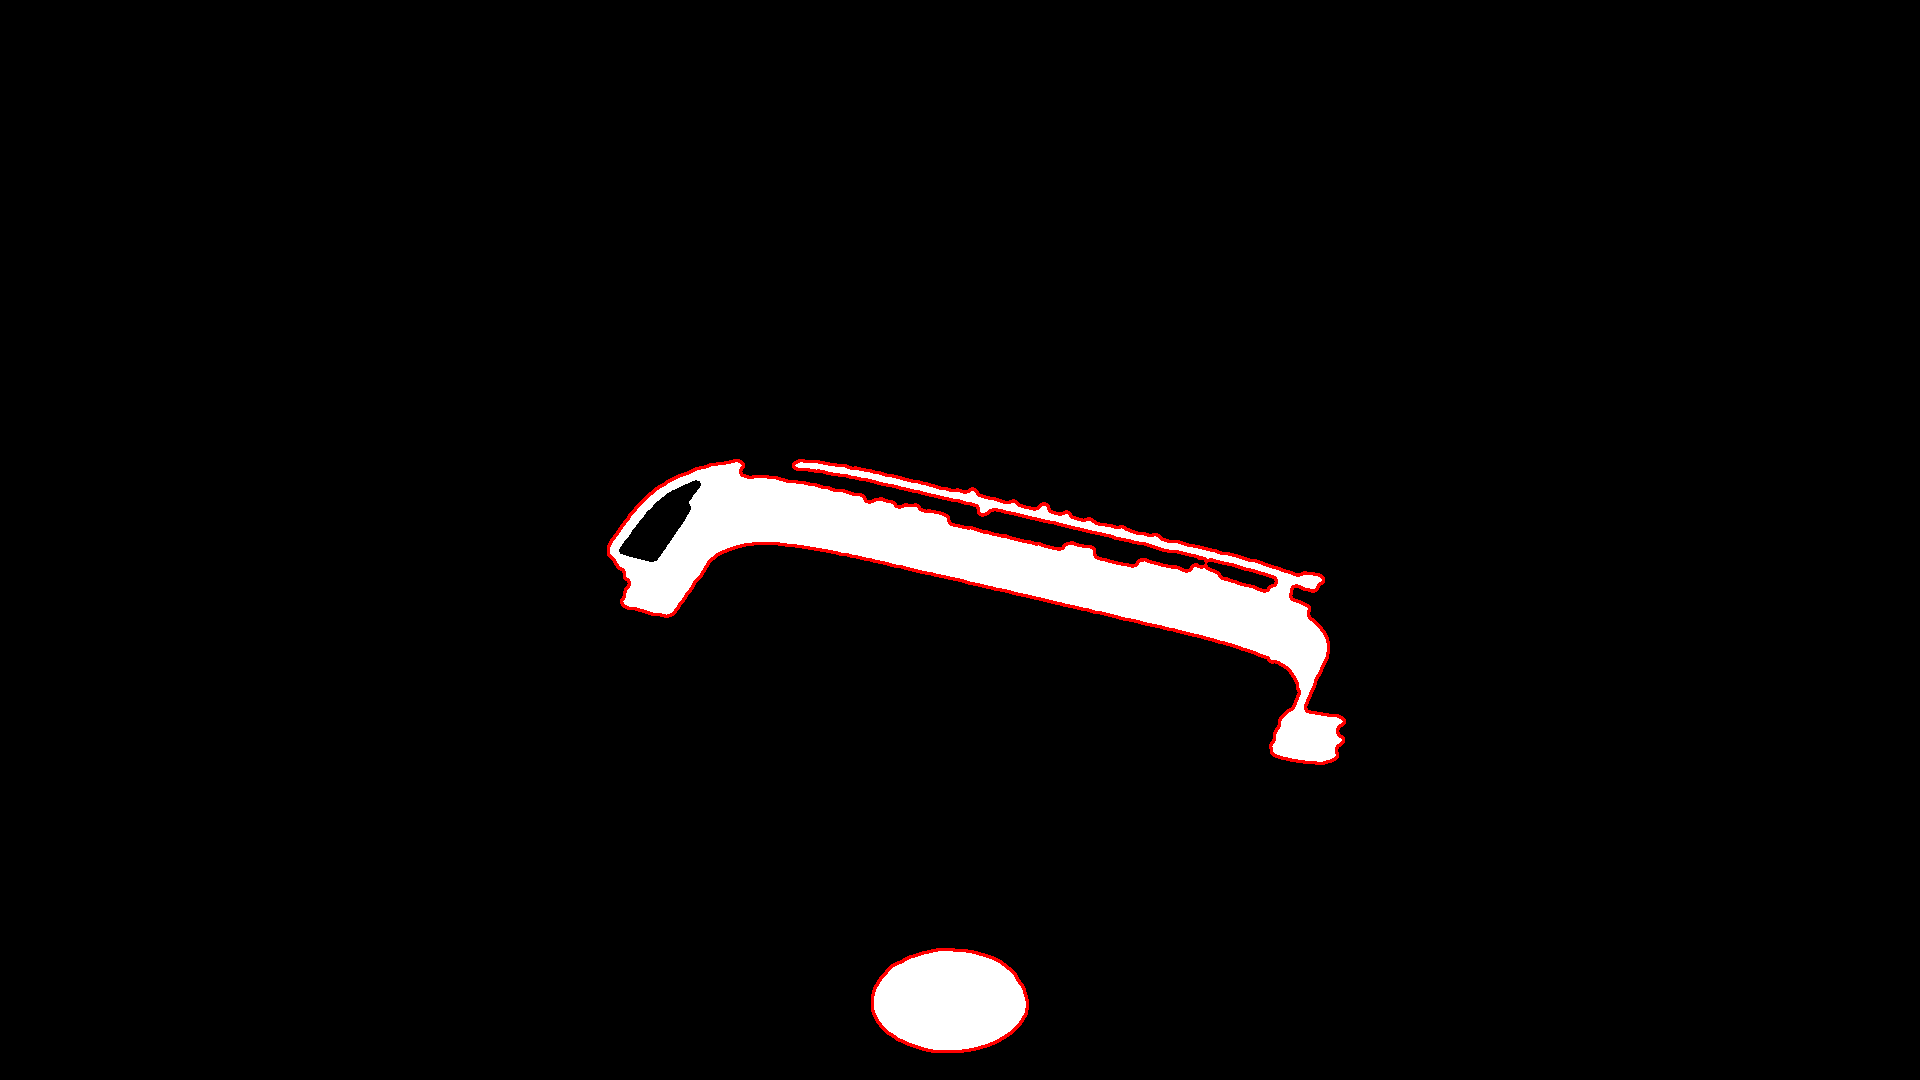
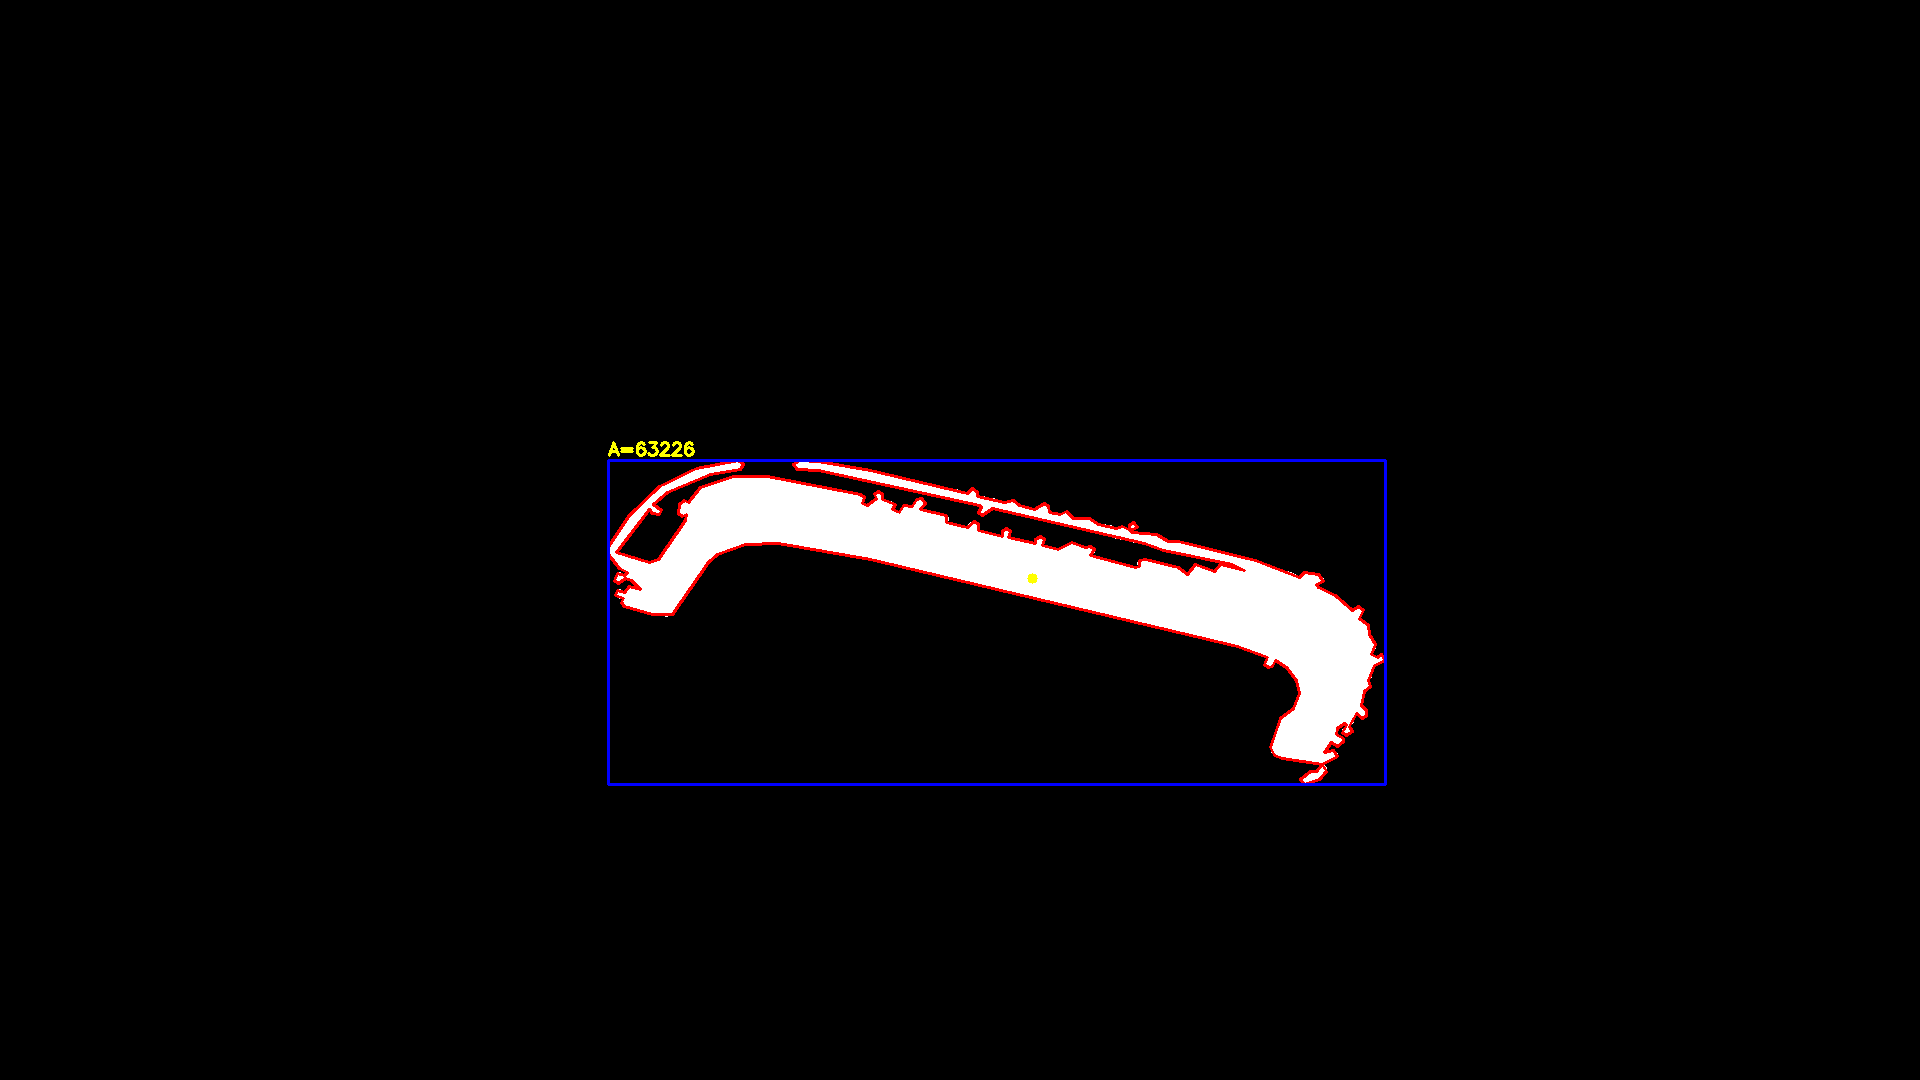
mejoras segmentacion v3

diff --git a/interfaz_robot/interfaz_robot.cpp b/interfaz_robot/interfaz_robot.cpp
@@ -505,7 +505,9 @@ cv::Mat interfaz_robot::ProcesarImagen() {
 
     for (const auto& entry : fs::directory_iterator(rutaEjecutable)) {
         std::string nombre = entry.path().filename().string();
-        if (nombre.rfind("pieza_", 0) == 0 && nombre.find("segmentada") == std::string::npos && entry.path().extension() == ".png") {
+        if (nombre.rfind("pieza_", 0) == 0 &&
+            nombre.find("segmentada") == std::string::npos &&
+            entry.path().extension() == ".png") {
             imagenes.push_back(entry.path());
         }
     }
@@ -519,7 +521,7 @@ cv::Mat interfaz_robot::ProcesarImagen() {
     cv::Mat ultimaProcesada;
 
     for (const auto& rutaImagen : imagenes) {
-        std::cout << "Procesando: " << rutaImagen << std::endl;
+        std::cout << "\nProcesando: " << rutaImagen << std::endl;
         cv::Mat img = cv::imread(rutaImagen.string());
         if (img.empty()) {
             std::cerr << "No se pudo cargar " << rutaImagen << "\n";
@@ -533,182 +535,105 @@ cv::Mat interfaz_robot::ProcesarImagen() {
             continue;
         }
 
-        // === 2. Convertir a escala de grises ===
+        // === 2. Escala de grises y suavizado ===
         cv::Mat gris;
         cv::cvtColor(procesada, gris, cv::COLOR_BGR2GRAY);
+        cv::GaussianBlur(gris, gris, cv::Size(5, 5), 0);
+        cv::medianBlur(gris, gris, 5);
 
-        // === 3. Filtro de suavizado ===
-        cv::Mat suavizada;
-        cv::GaussianBlur(gris, suavizada, cv::Size(5, 5), 0);
-        cv::medianBlur(suavizada, suavizada, 5);
-
-        // === 4. Umbral adaptativo ===
+        // === 3. Umbral adaptativo ===
         cv::Mat binaria;
         cv::adaptiveThreshold(
-            suavizada, binaria, 255,
+            gris, binaria, 255,
             cv::ADAPTIVE_THRESH_GAUSSIAN_C,
             cv::THRESH_BINARY_INV, 21, 3
         );
 
-        // === 5. Morfología para limpiar ruido ===
-        cv::Mat kernelCierre = cv::getStructuringElement(cv::MORPH_ELLIPSE, cv::Size(7, 7));
-        cv::morphologyEx(binaria, binaria, cv::MORPH_CLOSE, kernelCierre, cv::Point(-1, -1), 1);
-        cv::Mat kernelApertura = cv::getStructuringElement(cv::MORPH_ELLIPSE, cv::Size(3, 3));
-        cv::morphologyEx(binaria, binaria, cv::MORPH_OPEN, kernelApertura, cv::Point(-1, -1), 1);
+        // === 4. Morfología (limpieza) ===
+        cv::morphologyEx(binaria, binaria, cv::MORPH_CLOSE,
+            cv::getStructuringElement(cv::MORPH_ELLIPSE, cv::Size(7, 7)));
+        cv::morphologyEx(binaria, binaria, cv::MORPH_OPEN,
+            cv::getStructuringElement(cv::MORPH_ELLIPSE, cv::Size(3, 3)));
+        cv::dilate(binaria, binaria,
+            cv::getStructuringElement(cv::MORPH_ELLIPSE, cv::Size(7, 7)));
 
-        // === 6. Detección de contornos ===
+        // === 5. Contornos ===
         std::vector<std::vector<cv::Point>> contornos;
         cv::findContours(binaria.clone(), contornos, cv::RETR_EXTERNAL, cv::CHAIN_APPROX_SIMPLE);
 
-        // === 7. Filtrar contornos por área y bordes ===
-        cv::Mat plano = cv::Mat::zeros(binaria.size(), CV_8UC1);
-        double areaMinima = procesada.cols * procesada.rows * 0.001;
+        cv::Mat salidaBinaria = cv::Mat::zeros(binaria.size(), CV_8UC1);
+        const double areaMinima = 20000.0;
+
+        std::vector<cv::Rect> bboxesValidas;
+        std::vector<double> areasValidas;
         std::vector<std::vector<cv::Point>> contornosValidos;
-        std::vector<cv::Rect> bboxes;
 
         for (const auto& c : contornos) {
             double area = cv::contourArea(c);
-            if (area < areaMinima) continue;
-            cv::Rect bbox = cv::boundingRect(c);
-            if (bbox.x <= 1 || bbox.y <= 1 || bbox.x + bbox.width >= procesada.cols - 1 || bbox.y + bbox.height >= procesada.rows - 1)
-                continue;
-            contornosValidos.push_back(c);
-            bboxes.push_back(bbox);
-        }
-
-        // Parámetros de fusión (ajustables)
-        const double distanciaMax = 25.0; // px máximo para considerar fusión
-        const double maxForegroundFrac = 0.30; // fracción máxima de foreground en la línea de conexión
-        const int samplesAlongLine = 20; // cantidad de muestras a tomar a lo largo de la línea
-
-        // Helper: calcula la distancia mínima entre 2 contornos y los puntos más cercanos (pA, pB)
-        auto contourMinDistAndPoints = [](const std::vector<cv::Point>& A, const std::vector<cv::Point>& B, cv::Point& pA_out, cv::Point& pB_out) -> double {
-            double minD = std::numeric_limits<double>::max();
-            for (const cv::Point& pa : A) {
-                for (const cv::Point& pb : B) {
-                    double d = cv::norm(pa - pb);
-                    if (d < minD) {
-                        minD = d;
-                        pA_out = pa;
-                        pB_out = pb;
-                    }
-                }
-            }
-            return minD;
-            };
-
-        // === 8. Mejor unión de contornos: criterios múltiples y verificación por línea ===
-        cv::Mat planoUnion = cv::Mat::zeros(binaria.size(), CV_8UC1);
-        cv::drawContours(planoUnion, contornosValidos, -1, 255, cv::FILLED);
-        std::vector<int> merge_partner(contornosValidos.size(), -1);
-
-        for (size_t i = 0; i < contornosValidos.size(); ++i) {
-            for (size_t j = i + 1; j < contornosValidos.size(); ++j) {
-                cv::Rect bi = bboxes[i];
-                cv::Rect bj = bboxes[j];
-                cv::Rect unionBB = bi | bj;
-                double diagMax = std::sqrt(std::max(bi.width * bi.width + bi.height * bi.height, bj.width * bj.width + bj.height * bj.height));
-
-                cv::Point2d ci(bi.x + bi.width / 2.0, bi.y + bi.height / 2.0);
-                cv::Point2d cj(bj.x + bj.width / 2.0, bj.y + bj.height / 2.0);
-                double centroDist = cv::norm(ci - cj);
-                if (centroDist > (diagMax * 1.5 + distanciaMax * 2.0)) {
-                    continue;
-                }
-
-                cv::Point pA, pB;
-                double minD = contourMinDistAndPoints(contornosValidos[i], contornosValidos[j], pA, pB);
-                if (minD > distanciaMax) continue;
-
-                int fgCount = 0;
-                int totalSamples = std::max(2, samplesAlongLine);
-                for (int s = 0; s <= totalSamples; ++s) {
-                    double t = static_cast<double>(s) / totalSamples;
-                    int x = static_cast<int>(std::round(pA.x + t * (pB.x - pA.x)));
-                    int y = static_cast<int>(std::round(pA.y + t * (pB.y - pA.y)));
-                    x = std::clamp(x, 0, binaria.cols - 1);
-                    y = std::clamp(y, 0, binaria.rows - 1);
-                    if (binaria.at<uchar>(y, x) > 0) fgCount++;
-                }
-
-                double fgFrac = static_cast<double>(fgCount) / (totalSamples + 1);
-                bool acceptMerge = false;
-                if (fgFrac <= maxForegroundFrac) {
-                    acceptMerge = true;
-                }
-                else {
-                    if (minD < std::max(3.0, diagMax * 0.08)) {
-                        acceptMerge = true;
-                    }
-                }
-
-                if (acceptMerge) {
-                    if (merge_partner[i] == -1 && merge_partner[j] == -1) {
-                        int idx = static_cast<int>(i);
-                        merge_partner[i] = idx;
-                        merge_partner[j] = idx;
-                    }
-                    else if (merge_partner[i] != -1 && merge_partner[j] == -1) {
-                        merge_partner[j] = merge_partner[i];
-                    }
-                    else if (merge_partner[j] != -1 && merge_partner[i] == -1) {
-                        merge_partner[i] = merge_partner[j];
-                    }
-                    else {
-                        int a = merge_partner[i];
-                        int b = merge_partner[j];
-                        if (a != b) {
-                            for (size_t k = 0; k < merge_partner.size(); ++k)
-                                if (merge_partner[k] == b)
-                                    merge_partner[k] = a;
-                        }
-                    }
-                    cv::line(planoUnion, pA, pB, 255, static_cast<int>(std::max(3.0, diagMax * 0.02)));
-                }
+            if (area >= areaMinima) {
+                cv::drawContours(salidaBinaria, std::vector<std::vector<cv::Point>>{c}, -1, 255, cv::FILLED);
+                bboxesValidas.push_back(cv::boundingRect(c));
+                areasValidas.push_back(area);
+                contornosValidos.push_back(c);
             }
         }
 
-        int nextCluster = static_cast<int>(contornosValidos.size());
-        for (size_t i = 0; i < contornosValidos.size(); ++i) {
-            if (merge_partner[i] == -1) {
-                merge_partner[i] = static_cast<int>(i);
-            }
+        std::cout << "Objetos detectados: " << bboxesValidas.size() << std::endl;
+
+        // === 6. Imagen final color ===
+        cv::Mat salidaFinal;
+        cv::cvtColor(salidaBinaria, salidaFinal, cv::COLOR_GRAY2BGR);
+
+        for (size_t i = 0; i < bboxesValidas.size(); ++i) {
+
+            // --- 6.1 Suavizado del contorno ---
+            std::vector<cv::Point> contornoSuave;
+            cv::approxPolyDP(contornosValidos[i], contornoSuave, 2.0, true);
+
+            // Contorno rojo
+            cv::drawContours(salidaFinal, std::vector<std::vector<cv::Point>>{contornoSuave}, -1, cv::Scalar(0, 0, 255), 2);
+
+            // Bounding box azul
+            cv::rectangle(salidaFinal, bboxesValidas[i], cv::Scalar(255, 0, 0), 2);
+
+            // --- 6.2 Centroide ---
+            cv::Moments m = cv::moments(contornosValidos[i]);
+            int cx = static_cast<int>(m.m10 / m.m00);
+            int cy = static_cast<int>(m.m01 / m.m00);
+            cv::circle(salidaFinal, cv::Point(cx, cy), 5, cv::Scalar(0, 255, 255), -1);
+
+            // Texto área + centroide
+            std::string texto = "A=" + std::to_string(static_cast<int>(areasValidas[i]));
+            cv::putText(salidaFinal, texto,
+                cv::Point(bboxesValidas[i].x, bboxesValidas[i].y - 5),
+                cv::FONT_HERSHEY_SIMPLEX, 0.6,
+                cv::Scalar(0, 255, 255), 2);
+
+            std::cout << "Objeto " << i + 1
+                << " -> Area=" << static_cast<int>(areasValidas[i])
+                << "  BBox(" << bboxesValidas[i].x << ", " << bboxesValidas[i].y
+                << ", " << bboxesValidas[i].width << "x" << bboxesValidas[i].height << ")"
+                << "  Centroide(" << cx << "," << cy << ")"
+                << std::endl;
         }
 
-        std::map<int, std::vector<int>> clusters;
-        for (size_t i = 0; i < merge_partner.size(); ++i) {
-            clusters[merge_partner[i]].push_back(static_cast<int>(i));
-        }
+        // === 7. Guardar imagen final ===
+        fs::path rutaSalida = rutaImagen.parent_path() /
+            (rutaImagen.stem().string() + "_segmentada.png");
+        cv::imwrite(rutaSalida.string(), salidaFinal);
 
-        cv::Mat planoClusters = cv::Mat::zeros(binaria.size(), CV_8UC1);
-        for (auto& kv : clusters) {
-            for (int idx : kv.second) {
-                cv::drawContours(planoClusters, contornosValidos, idx, 255, cv::FILLED);
-            }
-        }
-
-        cv::Mat kernelDilate = cv::getStructuringElement(cv::MORPH_ELLIPSE, cv::Size(7, 7));
-        cv::dilate(planoClusters, planoClusters, kernelDilate);
-        cv::Mat kernelClose = cv::getStructuringElement(cv::MORPH_ELLIPSE, cv::Size(9, 9));
-        cv::morphologyEx(planoClusters, planoClusters, cv::MORPH_CLOSE, kernelClose);
-
-        // === 9. Dibujar contornos finales sobre imagen procesada ===
-        std::vector<std::vector<cv::Point>> contornosFinales;
-        cv::findContours(planoClusters.clone(), contornosFinales, cv::RETR_EXTERNAL, cv::CHAIN_APPROX_SIMPLE);
-        cv::Mat salidaColor;
-        cv::cvtColor(planoClusters, salidaColor, cv::COLOR_GRAY2BGR);
-        cv::drawContours(salidaColor, contornosFinales, -1, cv::Scalar(0, 0, 255), 2);
-
-        // === 10. Guardar resultado ===
-        fs::path rutaColor = rutaImagen.parent_path() / (rutaImagen.stem().string() + "_segmentada.png");
-        cv::imwrite(rutaColor.string(), salidaColor);
-        std::cout << "Guardada la imagen segmentada: " << rutaColor << std::endl;
-
-        ultimaProcesada = salidaColor.clone();
+        ultimaProcesada = salidaFinal.clone();
     }
 
     return ultimaProcesada;
 }
+
+
+
+
+
+
+
 
 
 
